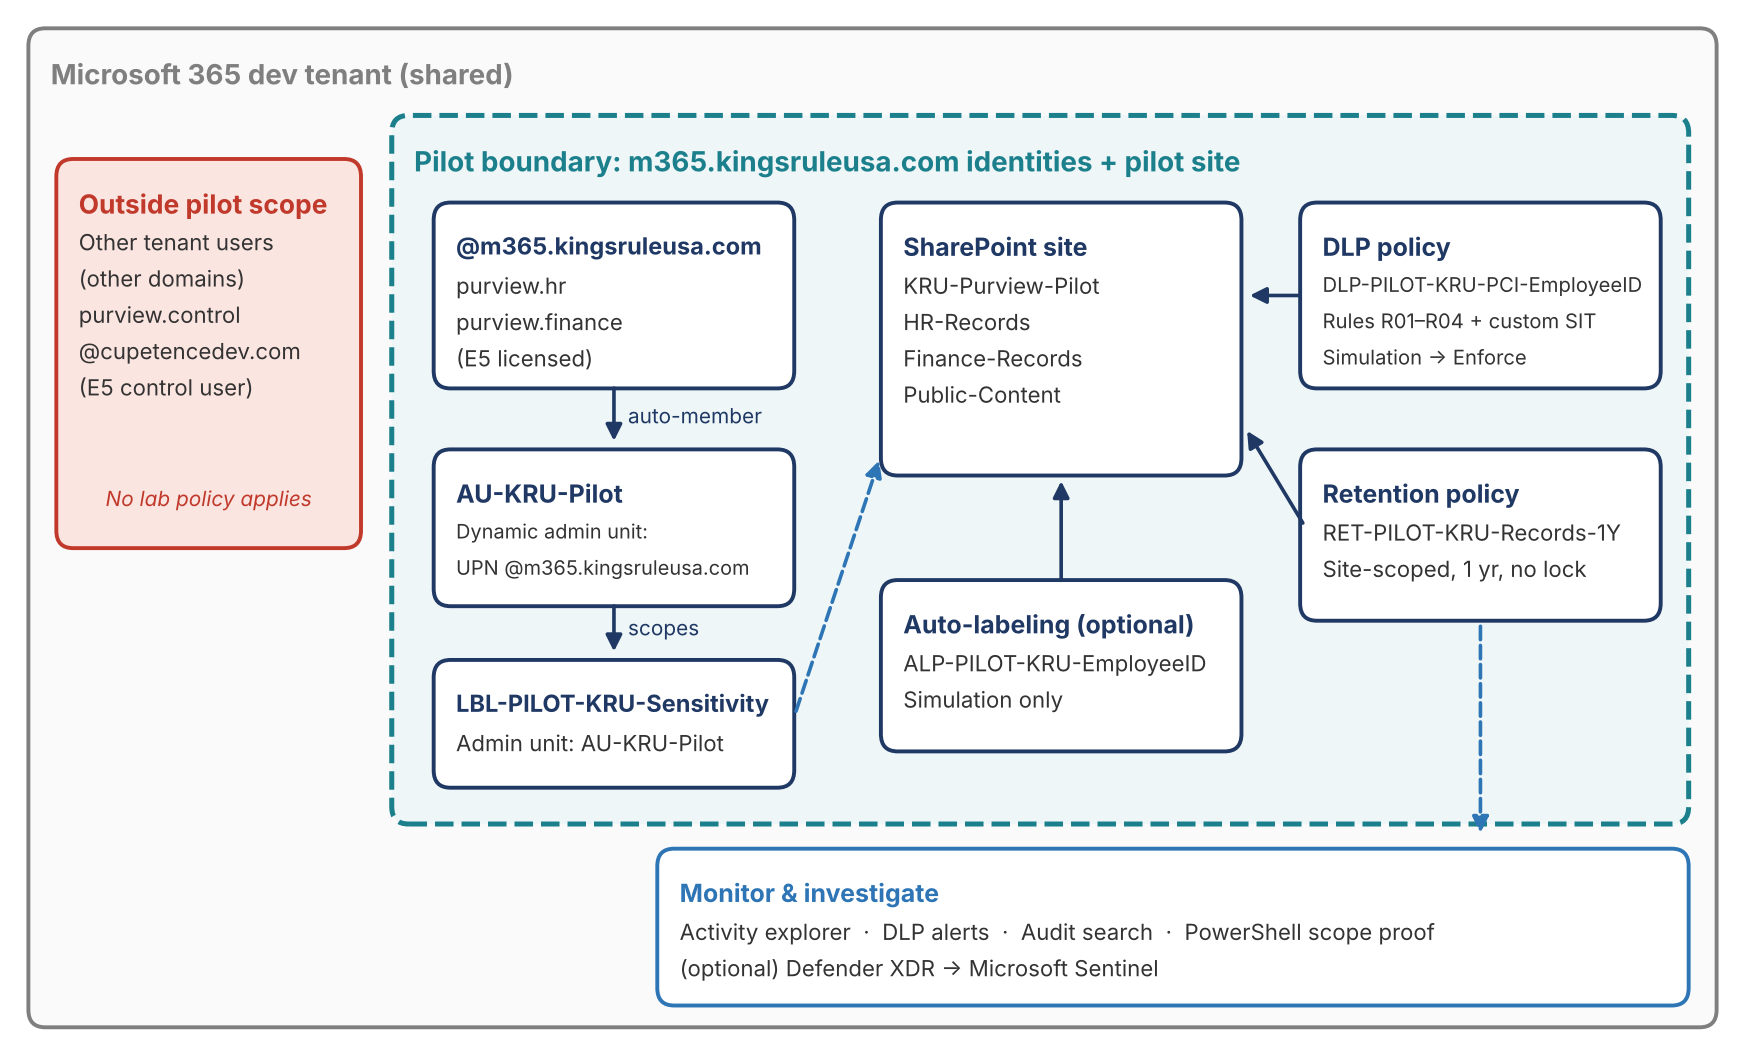
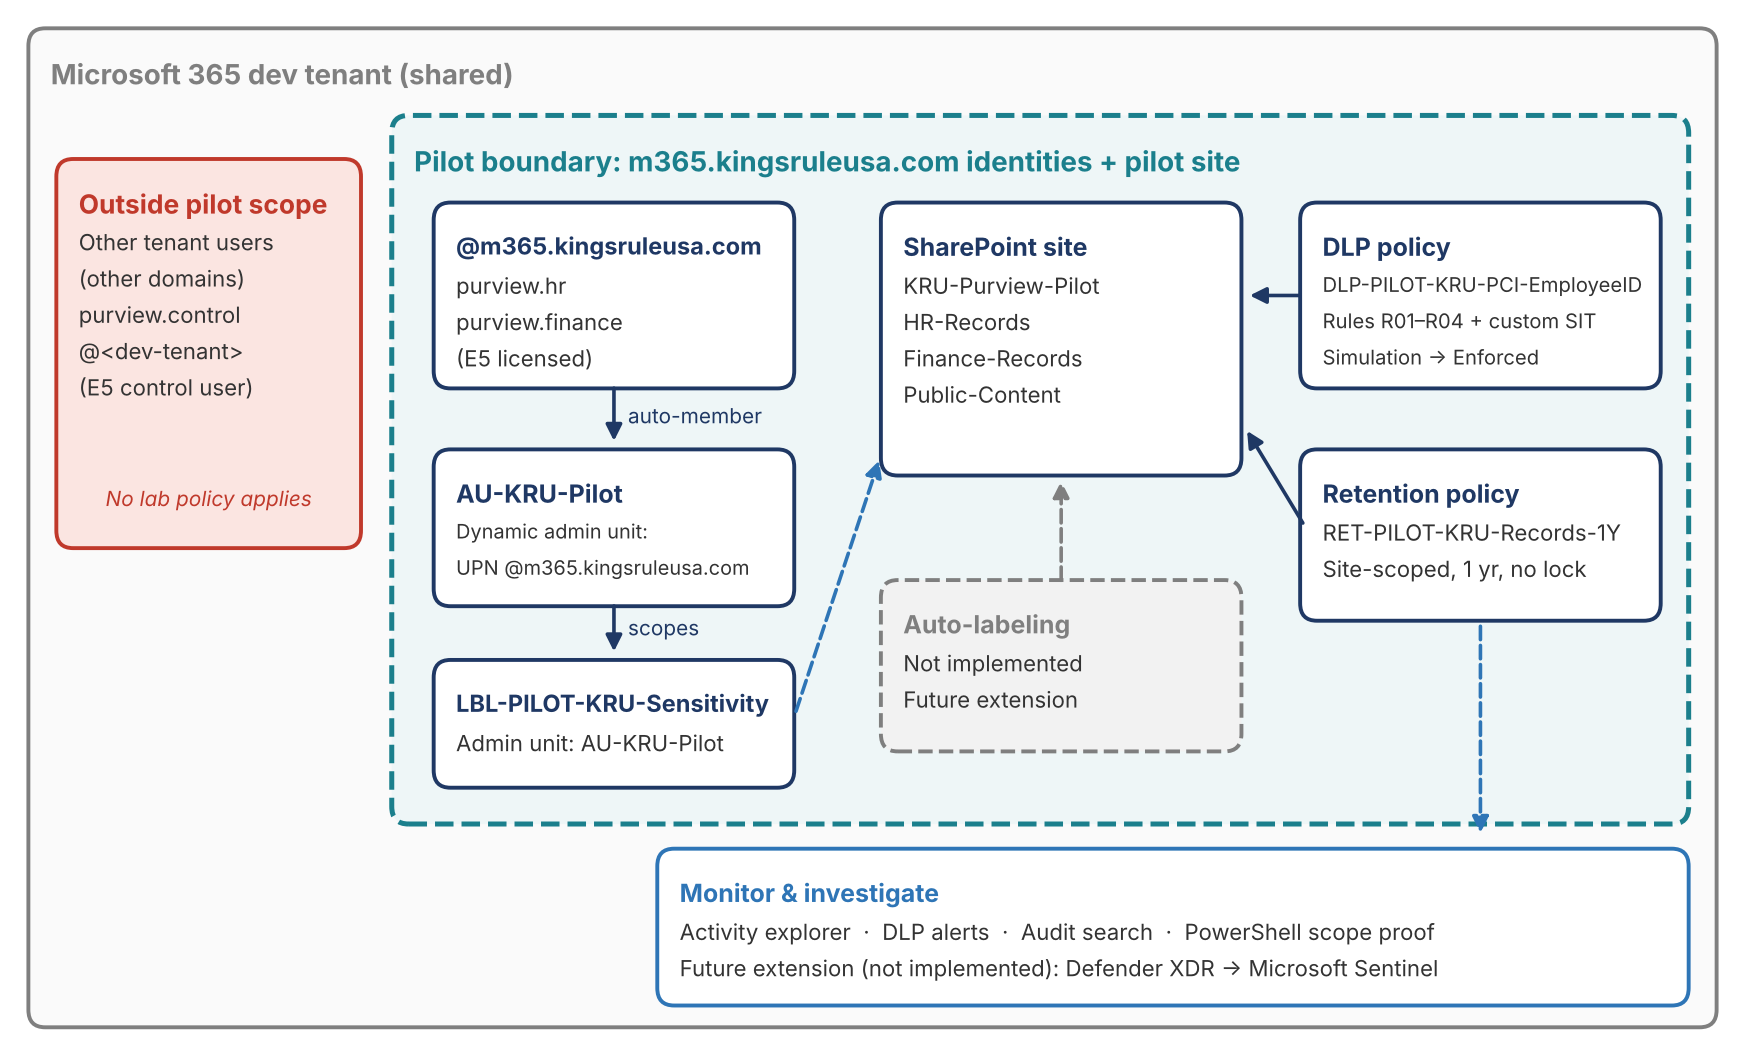
Apply review: post-enforcement scope proof, honest check counts, evidence links, limitations

diff --git a/README.md b/README.md
@@ -6,6 +6,19 @@ I designed, automated and validated a Microsoft Purview data protection pilot fo
 
 > **Lab flow:** Readiness → Scope Boundary → Classify → Detect → Simulate → Enforce → Investigate → Prove Scope
 
+## At a Glance
+
+| Area | Result |
+|------|--------|
+| Pilot boundary | Labels scoped to a dynamic administrative unit (pilot domain only); DLP and retention scoped to one SharePoint site |
+| Classification | 4 sensitivity labels with markings, mandatory labelling, default label and downgrade justification |
+| Detection | Custom SIT for employee IDs plus the built-in Credit Card Number SIT |
+| DLP | 4 tiered rules taken from simulation to enforcement through a change record |
+| Test outcome | **15 of 15 documented test cases passed**, including negative and out-of-scope tests |
+| Scope proof | **15 / 15 evaluated checks passed after enforcement** (2 further rows recorded as INFO / NOT IMPLEMENTED) |
+
+**Contents:** [Problem](#the-problem-this-lab-solves) · [Environment](#lab-environment) · [Architecture](#architecture-and-logical-workflow) · [Implementation](#implementation) · [Validation Results](#validation-results) · [Automation](#powershell-automation) · [Limitations](#limitations-and-future-work) · [Lessons](#troubleshooting-lessons) · [Repository](#repository-structure)
+
 ---
 
 ## The Problem This Lab Solves
@@ -68,7 +81,7 @@ I set out to demonstrate that I can:
 | Shared Microsoft 365 development tenant | Environment shared with other administrators, so blast-radius control was mandatory |
 | `m365.kingsruleusa.com` | Dedicated domain representing the KRU pilot organisation |
 | `AU-KRU-Pilot` | Dynamic administrative unit: `(user.userPrincipalName -match "@m365\.kingsruleusa\.com$")` |
-| `purview.hr`, `purview.finance` | Pilot users on the KRU domain (Microsoft 365 E5) |
+| `purview.hr`, `purview.finance` | Pilot test users on the KRU domain (Microsoft 365 E5). Other users created later on the same domain join the AU automatically (see Lessons) |
 | `purview.control` | Control user **outside** the AU, used for negative testing |
 | `KRU-Purview-Pilot` | SharePoint site with HR-Records, Finance-Records and Public-Content libraries |
 | KRU Public / Internal / Confidential / Highly Confidential | Sensitivity label taxonomy, published only to `AU-KRU-Pilot` |
@@ -151,7 +164,7 @@ New-KruPilotIdentities.ps1
 Membership rule:
 (user.userPrincipalName -match "@m365\.kingsruleusa\.com$")
 
-Result:
+Result at build time:
 2 members, 0 outsiders
 ```
 
@@ -167,7 +180,7 @@ I created the `KRU-Purview-Pilot` communication site with three libraries and ga
 
 ## 4. Sensitivity Label Taxonomy and AU-Scoped Label Policy
 
-I created four labels with PowerShell in ascending sensitivity, each with its own content markings. I then published them in a label policy scoped to `AU-KRU-Pilot`, with mandatory labelling, **KRU Internal** as the default, and justification required to lower a label.
+I created four labels with PowerShell in ascending sensitivity, each with its own content markings. I then published them in the portal, where I could confirm the admin-unit picker visually, in a label policy scoped to `AU-KRU-Pilot`, with mandatory labelling, **KRU Internal** as the default, and justification required to lower a label.
 
 | Label | Markings |
 |-------|----------|
@@ -243,7 +256,7 @@ R04 is triggered by the **label**, not the content. The board memo deliberately 
 
 ## 9. Simulation Results
 
-I uploaded the six test documents as the pilot users. Policy tips appeared on exactly the files I expected, and the clean files were not flagged.
+I uploaded the six test documents as the pilot users. Policy tips appeared on exactly the files I expected, and the clean files in the test set were not flagged.
 
 [![Policy tips in HR-Records](screenshots/11a-policy-tips-hr-records.png)](screenshots/11a-policy-tips-hr-records.png)
 
@@ -332,51 +345,61 @@ The R02 match raised a high-severity DLP alert. I assigned it, classified it as 
 
 ---
 
-## 15. Scope Proof
+## 15. Post-Enforcement Scope Proof
 
-I finished with a read-only PowerShell script that checks every pilot object against the boundary and exports a CSV and transcript to `evidence/`. All 17 checks passed.
+After enforcement, I re-ran a read-only PowerShell script that checks every pilot object against the boundary and exports a CSV and transcript to `evidence/`. The script separates evaluated checks (PASS / FAIL) from rows recorded only for context (INFO) or for phases I did not build (NOT IMPLEMENTED), so only real checks count towards the total. The current DLP mode is recorded as **Enable**.
 
 [![Scope proof, all checks passed](screenshots/22-tc15-scope-proof-all-pass.png)](screenshots/22-tc15-scope-proof-all-pass.png)
 
 ```
-Checks:
-Labels, AU membership, label policy AU scope,
-DLP locations, retention locations, Preservation Lock
+Evaluated checks (15):
+Labels, AU membership and rule, label policy AU scope,
+DLP locations (5), retention locations (4), Preservation Lock, retention distribution
+
+Recorded, not counted (2):
+DLP mode = Enable (INFO)
+Auto-label policy (NOT IMPLEMENTED)
 
 Result:
-17 / 17 PASS - no tenant-wide impact detected
+15 / 15 evaluated checks PASS - no tenant-wide impact detected
 ```
 
 ---
 
 # Validation Results
 
-| Control / Test | Expected Result | Result |
-|----------------|-----------------|--------|
-| TC-01 Pilot user labels | Four KRU labels visible | PASS |
-| TC-02 Control user labels | No KRU labels visible | PASS |
-| TC-03 Default and mandatory labelling | KRU Internal applied by default | PASS |
-| TC-04 Content markings | KRU Confidential header applied | PASS |
-| TC-05 Downgrade justification | Justification required to lower a label | PASS |
-| TC-06 Custom SIT accuracy | 85 / 65 / no match / no match | PASS |
-| TC-07 R01 low-volume card data | Policy tip only; guest can open | PASS |
-| TC-08 R02 high-volume card data | Guest blocked; alert raised | PASS |
-| TC-09 R03 employee IDs | Blocked; override with justification allowed | PASS |
-| TC-10 R04 Highly Confidential | Blocked by label; no override | PASS |
-| TC-11 Near-miss false-positive check | No match; guest can open | PASS |
-| TC-12 OneDrive out of scope | Same file, no match | PASS |
-| TC-13 Retention | Deleted file preserved | PASS |
-| TC-14 Audit trail | Downgrade and justification traceable | PASS |
-| TC-15 Scope proof | 17 / 17 checks pass | PASS |
+| Control / Test | Expected Result | Result | Evidence |
+|----------------|-----------------|--------|----------|
+| TC-01 Pilot user labels | Four KRU labels visible | PASS | [05](screenshots/05-tc01-pilot-user-sees-kru-labels.png) |
+| TC-02 Control user labels | No KRU labels visible | PASS | [06](screenshots/06-tc02-control-user-no-labels.png) |
+| TC-03a Default label | New document receives KRU Internal automatically | PASS | Policy setting [03](screenshots/03-label-policy-scoped-to-au.png); behaviour verified manually, no screenshot |
+| TC-03b Mandatory labelling | A label cannot be removed, only changed | PASS | Policy setting [03](screenshots/03-label-policy-scoped-to-au.png); behaviour verified manually, no screenshot |
+| TC-04 Content markings | KRU Confidential header applied | PASS | [07](screenshots/07-tc04-confidential-header.png) |
+| TC-05 Downgrade justification | Justification required to lower a label | PASS | [08](screenshots/08-tc05-downgrade-justification.png) |
+| TC-06 Custom SIT accuracy | 85 / 65 / no match / no match | PASS | [09](screenshots/09-tc06-custom-sit-tests.png) |
+| TC-07 R01 low-volume card data | Policy tip only; guest can open | PASS | [11b](screenshots/11b-policy-tips-finance-records.png), [15](screenshots/15-tc07-guest-can-open-single-card.png) |
+| TC-08 R02 high-volume card data | Guest blocked; alert raised | PASS | [16a](screenshots/16a-tc08-guest-blocked.png), [16b](screenshots/16b-tc08-dlp-enforced-match.png), [17](screenshots/17-dlp-alert-triage-benign-positive.png) |
+| TC-09 R03 employee IDs | Blocked; override with justification allowed | PASS | [18](screenshots/18-tc09-share-blocked-in-dialog.png), [19](screenshots/19-tc09-override-submitted.png) |
+| TC-10 R04 Highly Confidential | Blocked by label; no override | PASS | [20](screenshots/20-tc10-r04-policy-tip-in-word.png), [21](screenshots/21-tc10-no-override-label-driven.png) |
+| TC-11 Near-miss false-positive check | No match; guest can open | PASS | [11a](screenshots/11a-policy-tips-hr-records.png), [12](screenshots/12-dlp-simulation-matches-by-rule.png) (no match recorded); external open verified manually |
+| TC-12 OneDrive out of scope | Same file, no match | PASS | [11c](screenshots/11c-tc12-onedrive-out-of-scope-no-tip.png), [12](screenshots/12-dlp-simulation-matches-by-rule.png) |
+| TC-13 Retention | Deleted file preserved | PASS | [13](screenshots/13-tc13-preservation-hold-library.png) |
+| TC-14 Audit trail | Downgrade and justification traceable | PASS | [14a](screenshots/14a-tc14-activity-explorer-downgrade.png), [14b](screenshots/14b-tc14-unified-audit-justification.png) |
+| TC-15 Scope proof (post-enforcement) | All evaluated checks pass | PASS | [22](screenshots/22-tc15-scope-proof-all-pass.png), [`evidence/`](evidence/) |
 
-**Simulation:** 4 of 4 expected rule matches, 0 false positives, 0 out-of-scope matches.
-**Overall:** 15 of 15 test cases passed.
+**Simulation:** 4 of 4 expected rule matches, with 0 false positives and 0 out-of-scope matches observed in the documented six-document test set.
+**Overall:** 15 of 15 test cases passed (TC-03 is reported as two sub-checks).
 
 ---
 
 # PowerShell Automation
 
-Every script is idempotent, supports `-WhatIf`, uses interactive sign-in only and stores no credentials. Tenant-specific values are **required parameters**, never defaults, so a script cannot run against the wrong tenant by accident.
+This was a **PowerShell-assisted deployment with documented portal steps**. I scripted the identities, administrative unit, labels, custom SIT, DLP policy and verification. I did the label publishing, the SharePoint site and the retention policy in the portal, where visual confirmation of scope was the safer choice in a shared tenant.
+
+- Every script uses interactive sign-in only and stores no credentials.
+- The scripts that **make changes** support `-WhatIf`. The readiness and verification scripts are read-only, so they make no changes to preview.
+- The build scripts are idempotent in the simple sense: an object that already exists is **reported and skipped, not reconciled**. A changed setting on an existing object is not corrected by re-running the script.
+- Tenant-specific values (admin account, site URL, alert mailbox, control domain) are **required parameters**. The pilot domain is a default parameter in the build scripts and a setting in the verification script, because it defines the lab itself.
 
 | Script | Purpose |
 |--------|---------|
@@ -421,6 +444,16 @@ Readiness → Configure → Simulate → Review → Enforce → Test → Investi
 
 ---
 
+# Limitations and Future Work
+
+- **Workloads tested:** SharePoint Online only for DLP and retention, and Word for the web for labelling. Exchange, Teams, OneDrive DLP and Endpoint DLP were deliberately out of scope.
+- **Test set:** six purpose-built documents with known expected outcomes. That proves the rules behave as designed, but it is not a measure of false-positive or false-negative rates on real business content.
+- **Manual steps:** label publishing, the SharePoint site and retention were configured in the portal, and some behaviours (TC-03, the TC-11 external open) were verified manually without a screenshot.
+- **Not implemented:** auto-labelling with the custom SIT, and forwarding Purview alerts to Microsoft Sentinel through Defender XDR. Both are shown as future extensions in the architecture diagram.
+- **Production recommendations:** Insider Risk Management with Adaptive Protection for override abuse, encryption on the Highly Confidential label, and a larger representative content sample before broad enforcement.
+
+---
+
 # Troubleshooting Lessons
 
 ### Override Is Not Approval
@@ -455,6 +488,10 @@ Label-change events are tagged with `AU-KRU-Pilot`, so a delegated administrator
 
 A partial file name in the ObjectId field returned 0 results. Searching by user and date returned 178. Activity explorer was the faster place to investigate.
 
+### Dynamic Membership Follows the Domain, Not the Project
+
+The administrative unit had 2 members at build time. When I later created five more users on the same domain for a separate PowerShell lab, they joined `AU-KRU-Pilot` automatically and became eligible for the KRU labels. The boundary held (no users outside the domain), but a domain-based rule includes everyone on the domain. For a stricter pilot I would add an attribute condition, such as department or extensionAttribute, or use a separate domain for unrelated labs.
+
 ### Portal Defaults Are Risky in a Shared Tenant
 
 The retention wizard defaulted to all sites, seven years and automatic deletion. In a shared tenant, every default must be checked before saving.
@@ -486,7 +523,7 @@ The retention wizard defaulted to all sites, seven years and automatic deletion.
 
 # Project Outcome
 
-I delivered a complete data protection pilot, from readiness through enforcement, investigation and scope proof, without affecting anyone else in a shared tenant. All 15 test cases passed. Every control is backed by a screenshot or script output, and the PowerShell can rebuild and re-verify the pilot.
+I delivered a complete data protection pilot, from readiness through enforcement, investigation and scope proof, without affecting anyone else in a shared tenant. All 15 documented test cases passed, and the post-enforcement scope proof passed 15 of 15 evaluated checks. Each result is linked to its evidence, and the PowerShell can rebuild the scripted parts and re-verify the pilot at any time.
 
 This project is directly relevant to Microsoft 365 security, data protection and compliance engineering roles, where Purview controls must protect sensitive data without disrupting the business.
 
@@ -511,10 +548,10 @@ m365-purview-data-protection-lab/
 |   \-- Verify-PurviewPilotScope.ps1
 |
 |-- evidence/
-|   |-- dlp-rules-20261003-2027.csv
-|   |-- labels-20261003-2027.csv
-|   |-- scope-proof-20261003-2027.csv
-|   \-- scope-proof-20261003-2027.txt
+|   |-- dlp-rules-20261005-1221.csv
+|   |-- labels-20261005-1221.csv
+|   |-- scope-proof-20261005-1221.csv
+|   \-- scope-proof-20261005-1221.txt
 |
 |-- test-data/
 |   \-- 6 fictional test documents (.docx)
